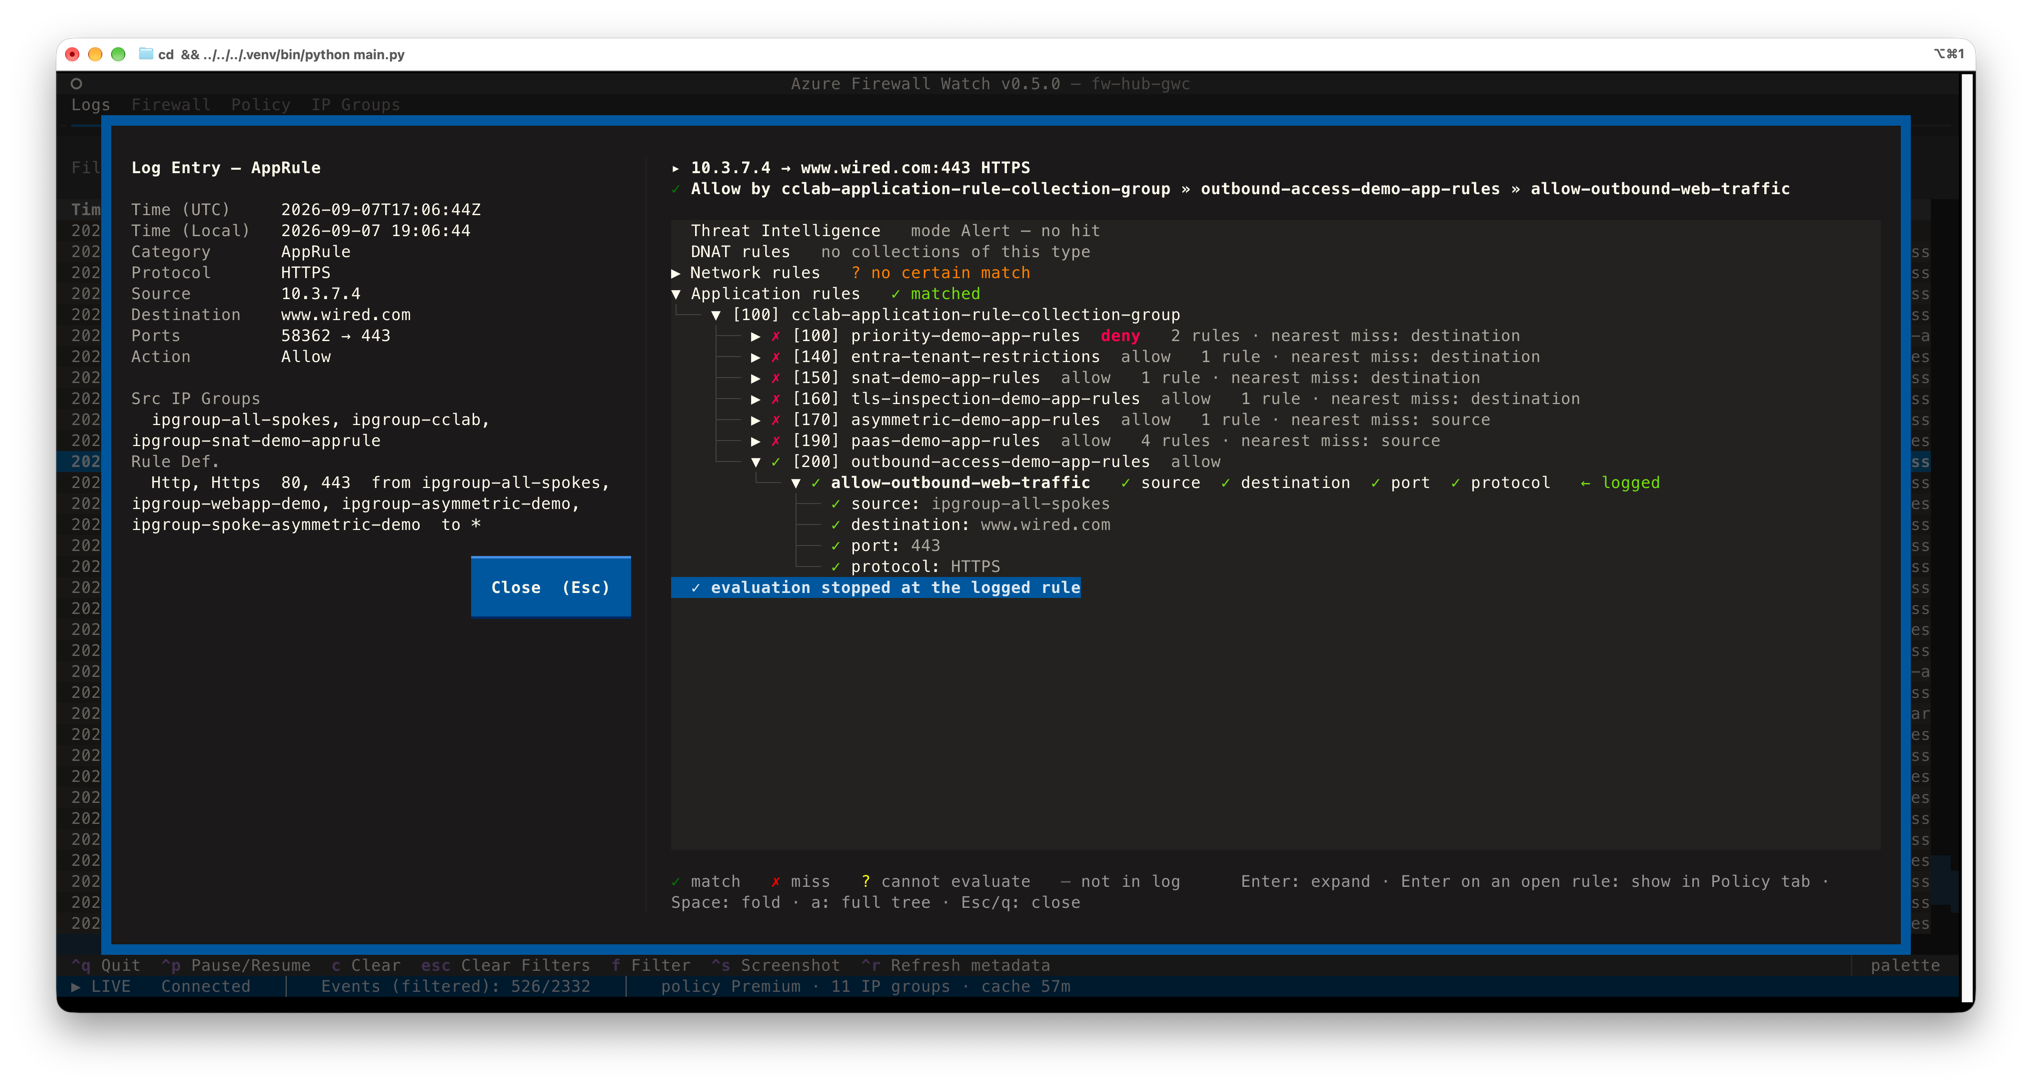
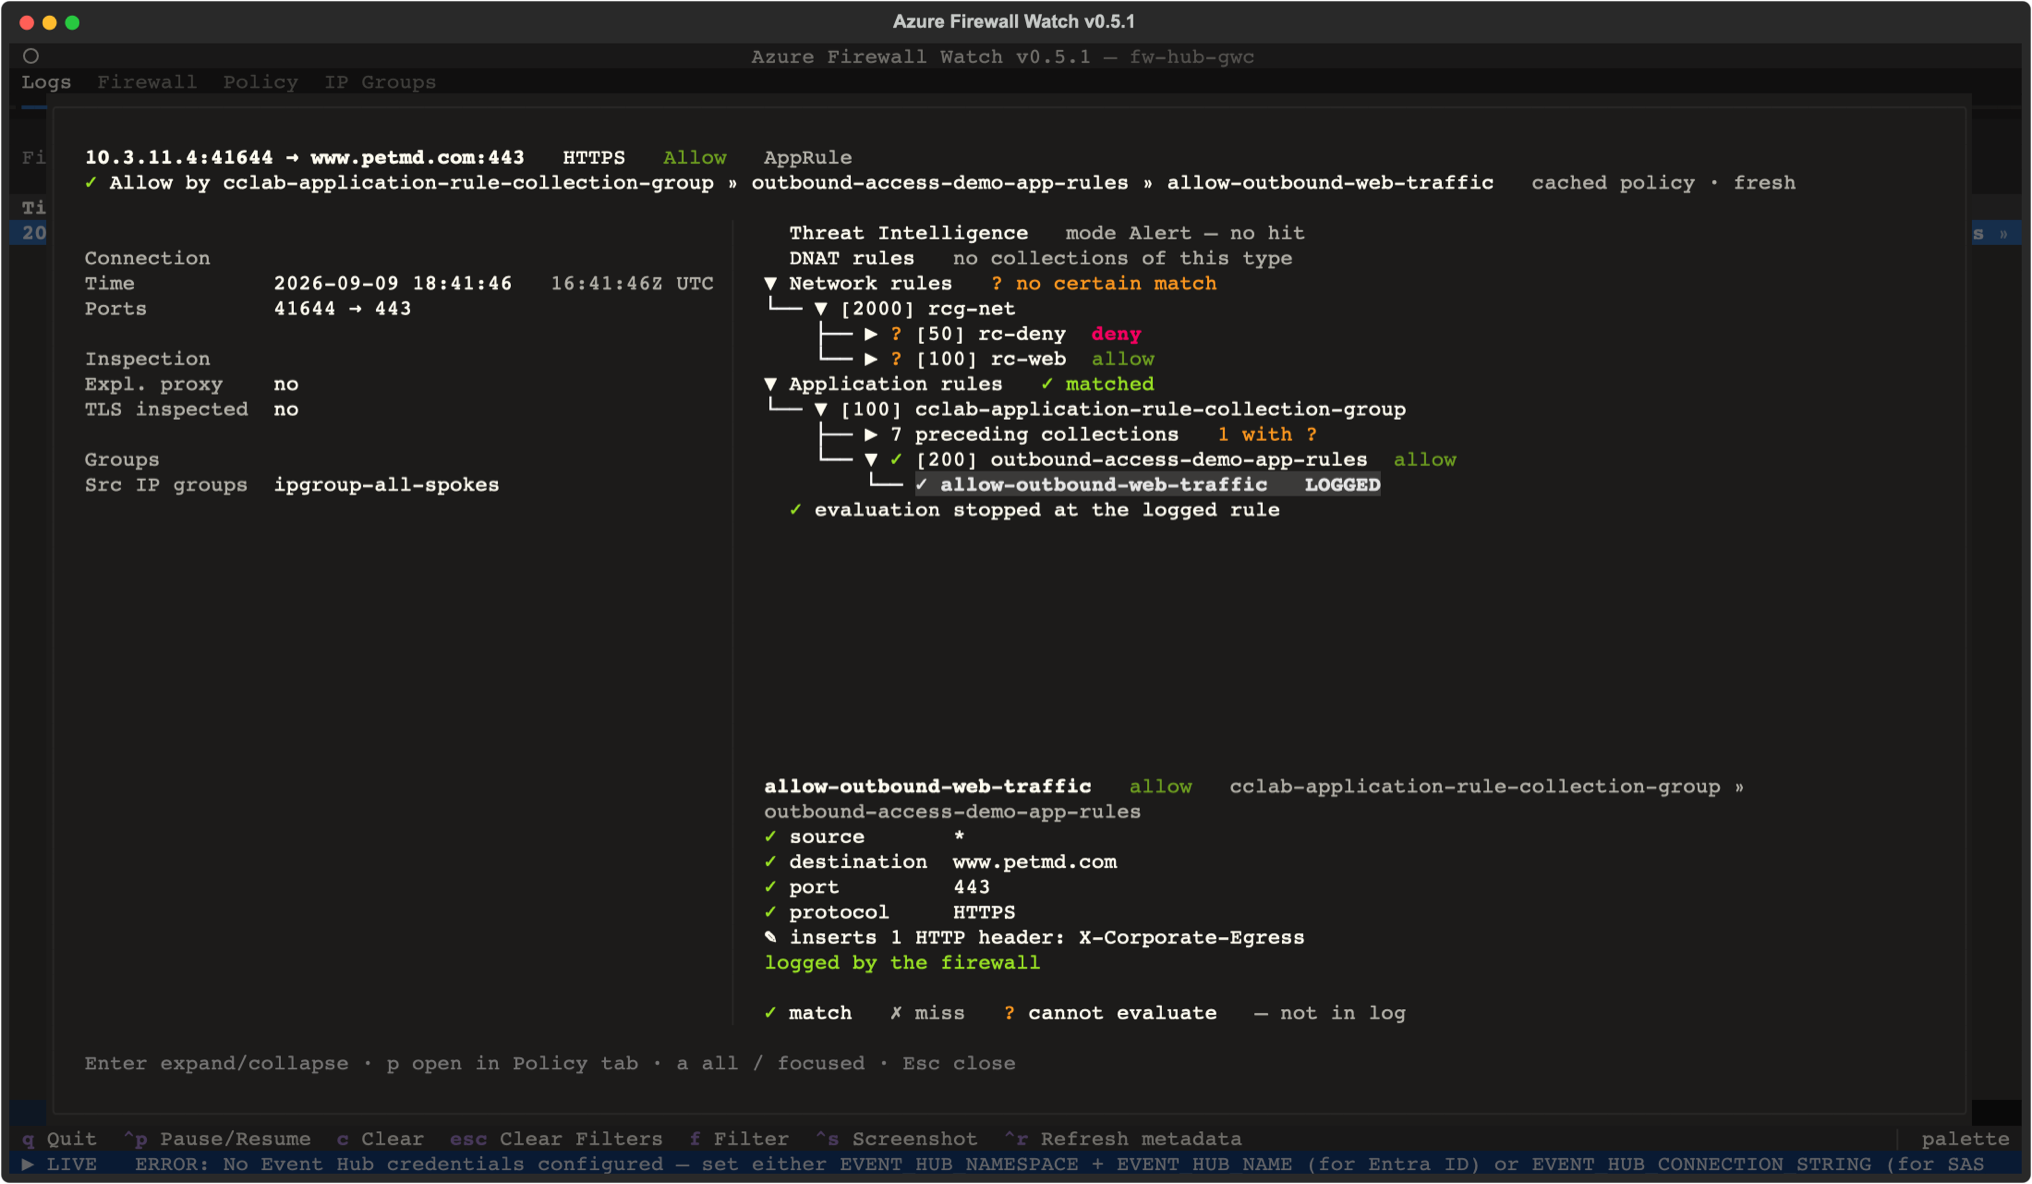
docs(dialog): the rebuilt row detail dialog, its keys and sizes

diff --git a/docs/detail-dialog-plan.md b/docs/detail-dialog-plan.md
@@ -1,8 +1,8 @@
 # Row detail dialog: redesign plan
 
-Status: in progress, part of 0.6.0. Source: a Codex review of the dialog as it
+Status: done, shipped with 0.6.0. Source: a Codex review of the dialog as it
 stood after the 0.6.0 tabs work, reduced to what the code and the data can
-actually support. The packages below are ticked off as they land.
+actually support. All seven packages below have landed.
 
 The dialog is what `Enter` opens on a log row. Today it is two things glued
 together: the row's fields on the left, and, when policy context is on and the
@@ -63,7 +63,7 @@ footer reduced to `Esc close`, and under the fields the one-line reason from
 Each is one subagent brief with tests of its own; they build on each other in
 this order.
 
-1. **Header and footer** (`viewer/views/detail_screen.py`)
+1. ✓ **Header and footer** (`viewer/views/detail_screen.py`)
    One header line with connection, protocol and logged action, built from
    the row alone so it exists in both modes. Second line only with a trace:
    the logged rule (or *no rule in the log*) and the cache age from the
@@ -72,7 +72,7 @@ this order.
    Tests: header equal in both modes; second line absent without a trace;
    footer keys per mode; no key leaks to the app on close.
 
-2. **Left column in groups** (`viewer/views/detail_screen.py`)
+2. ✓ **Left column in groups** (`viewer/views/detail_screen.py`)
    *Connection* (time local and UTC, source, destination, ports, and the
    category-specific fields: Flag, Rate, Response, Query type, Threat,
    Signature), *Inspection* (explicit proxy, TLS inspected, only when the
@@ -82,7 +82,7 @@ this order.
    Tests: one test per category with the expected groups; IPv6 endpoints;
    a 60-entry IP group list stays scrollable.
 
-3. **Focused tree** (`viewer/views/trace_screen.py`)
+3. ✓ **Focused tree** (`viewer/views/trace_screen.py`)
    Tree lines are status, priority and name only; collection lines lose the
    `n rules · nearest miss: …` suffix, rule lines lose the inline check
    summary. Collections before the logged rule's collection collapse into one
@@ -94,7 +94,7 @@ this order.
    cursor node after open; unknown collections are visible in focused mode;
    `a` and back; inherited policies keep their `· policy` origin.
 
-4. **Selection detail under the tree** (`viewer/views/trace_screen.py`)
+4. ✓ **Selection detail under the tree** (`viewer/views/trace_screen.py`)
    A `Static` under the tree that follows the cursor: for a rule its full
    name, collection, group, action, then one line per check with the
    observed value and the rule's expectation as the trace already records
@@ -104,7 +104,7 @@ this order.
    Tests: cursor moves update the detail; every `Check.detail` reaches the
    detail verbatim; header values absent.
 
-5. **Keys** (`viewer/views/trace_screen.py`, `viewer/app.py`)
+5. ✓ **Keys** (`viewer/views/trace_screen.py`, `viewer/app.py`)
    `Enter` toggles a node, nothing else. `p` opens the selected rule in the
    Policy tab (dismisses with the rule ref as today). `a` full tree,
    `v` has no meaning here (values live in the Policy tab). `Esc`/`q` close
@@ -112,7 +112,7 @@ this order.
    Tests: `Enter` on an open rule no longer leaves the dialog; `p` does;
    `q` inside the dialog does not quit the app.
 
-6. **Small terminals** (`viewer/views/detail_screen.py`)
+6. ✓ **Small terminals** (`viewer/views/detail_screen.py`)
    Below 120 columns the two columns become tabs inside the dialog
    (*Fields* / *Policy trace*, `Tab` switches); below 30 rows the tree gets
    the space and the selection detail collapses to two lines. Every pane
@@ -121,7 +121,7 @@ this order.
    logged rule reachable at all three sizes; without policy context the
    dialog is the fields alone at all three sizes.
 
-7. **Colour** (both files)
+7. ✓ **Colour** (both files)
    ✓ green, ? yellow, ✗ dim (a miss is the normal case), not-evaluated
    dimmer still; `deny` stays loud red, `allow` the quiet green from 0.6.0.
    Every symbol and colour name goes through the same rendering path (Rich

diff --git a/CHANGELOG.md b/CHANGELOG.md
@@ -23,7 +23,14 @@ and this project adheres to [Semantic Versioning](https://semver.org/spec/v2.0.0
 - **The firewall's own reason on rule-less application-rule rows.** An application-rule row that no rule matched carried an empty Rule Info column, while the same case on a network rule showed the log's `ActionReason` (usually `Default Action`). Both show it now.
 - The metadata cache moves to version 5 and is fetched once more on first start; the required roles are unchanged (Reader, plus Reader on the NAT gateway and the maintenance configuration for their two optional lines).
 - The firewall, policy and IP-group reads use ARM API version `2024-03-01` instead of `2024-01-01`. That is the first version that returns `autoscaleConfiguration`; with the old pin a prescaled firewall would have read as *service default*, which is a wrong statement of exactly the kind this release is meant to end. Policies and IP groups are unchanged between the two versions.
-- 754 tests (583 in 0.5.1); every new fact has tests for the field being present, absent and unreadable, and the explicit-proxy and TLS-inspection cases are modelled on the lab's real records.
+- 836 tests (583 in 0.5.1); every new fact has tests for the field being present, absent and unreadable, the explicit-proxy and TLS-inspection cases are modelled on the lab's real records, and the row detail dialog is rendered at three terminal sizes in both modes.
+
+### Changed
+
+- **The row detail dialog was rebuilt around the logged rule.** It used to be two things glued together: every field of the record on the left, and on the right a tree in which every line had the same weight, every collection carried a `nearest miss` suffix, and the rule the firewall actually logged sat somewhere in the middle. Now the header says what happened (connection, protocol and logged action; with policy context a second line with the trace's outcome and the cache age), the fields sit in groups (*Connection*, *Inspection*, *Groups*, *Rule*) with local and UTC time on one line, and the tree opens focused: the logged rule selected and in view, the collections rejected before it folded into `n preceding collections   all ✗`, the ones never reached into `n not evaluated`, and a `?` anywhere inside a fold keeps that fold open. Tree lines are status, priority and name; the criteria moved to a detail under the tree that follows the selection and shows every check with the observed value and the rule's expectation, whole names included. Header values of an inserting rule stay in the Policy tab. The dialog works the same without policy context: then it is the fields, the reason there is no trace, and `Esc close`.
+- **Keys in the dialog.** `Enter` folds and unfolds a node and nothing else; it used to open the Policy tab from an unfolded rule, which made the second press a surprise. `p` opens the selected rule in the Policy tab, `a` toggles between the focused and the full tree, `Esc` and `q` close. The Close button is gone; the footer lists the keys that apply.
+- **Small terminals.** Below 120 columns the fields and the trace become two tabs inside the dialog (*Fields* / *Policy trace*, `Tab` switches, the trace tab opens first); below 40 rows the selection detail gives its rows to the tree, below 30 the header keeps only the rule name. The tree keeps its selected line in view through every layout change, and every pane scrolls on its own. At 80×24 the trace was unusable before and is readable now; the screenshots in the PR show all three sizes in both modes.
+- **Quieter colours.** A miss is the normal case for most rules, so `✗` is dim rather than red; `?` stays the loudest mark, not-evaluated collections are dimmer still, the selection is a light bar rather than the saturated primary. `deny` stays loud, `allow` quiet, and the legend renders through the same path as the tree so the colours agree. The dialog's own frame is thin and `$panel` instead of blue.
 
 ### Fixed
 

diff --git a/docs/policy-context.md b/docs/policy-context.md
@@ -82,13 +82,29 @@ MSSQL flows.
 
 ![The detail dialog: the log entry's fields on the left, the evaluation trace on the right, ending at the rule the firewall logged](images/evaluation-trace.png)
 
-The log entry's own fields sit on the left, the trace on the right. Each pass
-reports its own verdict (`✓ matched`, `✗ no match`, `? no certain match`), and
-under it the rule collection groups with their collections in priority order.
-The collection's own action is the short tag after its name (`deny` in red,
-`allow` quiet, `dnat` in yellow): the ✓ or ✗ in front says whether the flow
-matched, the tag says what a match would have meant. Collections that did not
-match name their nearest miss, so you can see how close each one came.
+The dialog's header says what happened: connection, protocol and the logged
+action on the first line, the trace's outcome and the cache age on the second
+(`✓ Allow by rcg-net » rc-web » allow-web   cached policy · 12 min`). The log
+entry's own fields sit on the left, the trace on the right. Each pass reports
+its own verdict (`✓ matched`, `✗ no match`, `? no certain match`), and under it
+the rule collection groups with their collections in priority order. Lines are
+status, priority and name only; the collection's own action is the short tag
+after its name (`deny` in red, `allow` quiet, `dnat` in yellow): the mark in
+front says whether the flow matched, the tag says what a match would have
+meant.
+
+The tree opens focused on the logged rule: it is selected and scrolled into
+view, the collections the firewall rejected before it are folded into one line
+(`7 preceding collections   all ✗`), the ones it never reached into another
+(`3 not evaluated`). A `?` inside a folded range keeps that range open, so an
+unknown never disappears behind a fold. `a` switches to the full tree and back.
+
+Under the tree a detail line follows the selection: for a rule its full name,
+collection, group and action, then one line per criterion with the observed
+value and what the rule expected (`✗ port   8443 not in 443`); for a collection
+its verdict and the reason; for a pass its note. Names cut with `…` in the
+tree are whole here. A rule that inserts HTTP headers names them here, never
+their values.
 
 ### What you are looking at
 
@@ -127,10 +143,16 @@ checked against real records rather than the documentation.
 
 | Key            | In the trace tree                                             |
 | -------------- | ------------------------------------------------------------- |
-| `Enter`        | Unfold a rule; on an unfolded rule, open it in the Policy tab |
-| `Space`        | Fold it again                                                 |
-| `a`            | Expand the whole tree, including collections that were skipped |
+| `Enter`        | Fold or unfold the selected node                              |
+| `p`            | Open the selected rule in the Policy tab                      |
+| `a`            | The full tree, including the folded collections, and back     |
+| `Tab`          | On a terminal under 120 columns: switch between *Fields* and *Policy trace* |
 | `Escape` / `q` | Close the dialog                                              |
+
+Below 120 columns the fields and the trace are tabs rather than columns, and
+the trace tab opens first. Below 40 rows the selection detail shrinks so the
+tree keeps its rows; below 30 the header's outcome line drops the group and
+collection and keeps the rule name. Nothing is cut off: every pane scrolls.
 
 The trace is built only for rows that are a policy decision: `NetworkRule`,
 `AppRule`, `NATRule` and `ThreatIntel`. For anything else the dialog shows the

diff --git a/docs/using-the-viewer.md b/docs/using-the-viewer.md
@@ -74,8 +74,12 @@ How it interacts with the rest of the filter bar:
 
 ## Row details
 
-`Enter` on the highlighted row opens the detail dialog with the full record: every
-field the firewall logged, formatted and labelled. `Escape` or `q` closes it.
+`Enter` on the highlighted row opens the detail dialog. Its first line is the
+connection, protocol and logged action; below it the record's fields in groups:
+*Connection* (time local and UTC, ports, and what the category adds: flag, rate,
+query, response, threat, signature), *Inspection* (explicit proxy, TLS inspection,
+only when the record carries them) and *Rule* (policy, group, collection, rule).
+`Escape` or `q` closes it.
 
 The fields adapt to the category, because the raw log means different things
 depending on it:
@@ -88,10 +92,19 @@ depending on it:
   and a `Translated` line with what the firewall turned it into.
 - Everything else shows source, destination and ports as logged.
 
-When [policy context](policy-context.md) is available, the same dialog also carries
-the IP groups containing source and destination and the evaluation trace beside
-the record's own fields. The trace shows every criterion of the logged rule;
-`Enter` on the rule opens its full definition in the Policy tab.
+When [policy context](policy-context.md) is available, the same dialog gains a
+second header line with the trace's outcome and the cache age, a *Groups* block
+with the IP groups containing source and destination, and the evaluation trace
+beside the fields. The trace is described in
+[Evaluation trace](policy-context.md#evaluation-trace); the keys inside the
+dialog are `Enter` to fold a node, `p` to open the selected rule in the Policy
+tab, `a` to switch between the focused and the full tree.
+
+On a terminal narrower than 120 columns the fields and the trace become two
+tabs inside the dialog, *Fields* and *Policy trace*, switched with `Tab`; the
+trace tab opens first so the logged rule is the first thing on screen. Below
+40 rows the selection detail under the tree gives its rows to the tree, below
+30 the header shortens to the rule name. Every pane scrolls on its own.
 
 Rows that are not a policy decision (`DnsQuery`, `DnsFailure`, `IDPS`, `FlowTrace`,
 `FatFlow`) show their fields alone, with a line underneath that says why, for
@@ -124,6 +137,7 @@ authentication errors stop immediately with a hint rather than retrying.
 | `Ctrl` + `p` | Pause / resume streaming, same as clicking the status bar                                   |
 | `Ctrl` + `s` | Save an SVG screenshot of the current view                                                 |
 | `Enter`      | Open the row details, with the evaluation trace beside them when policy metadata is loaded |
+| `p`, `a`, `Tab` | In the row details: open the selected rule in the Policy tab, toggle the full trace, switch tabs on a narrow terminal |
 | `Escape`     | Clear all filter inputs (or close the open dialog)                                         |
 | `f`          | Jump focus to the filters                                                                  |
 | `Tab`        | Move between filter inputs                                                                 |
